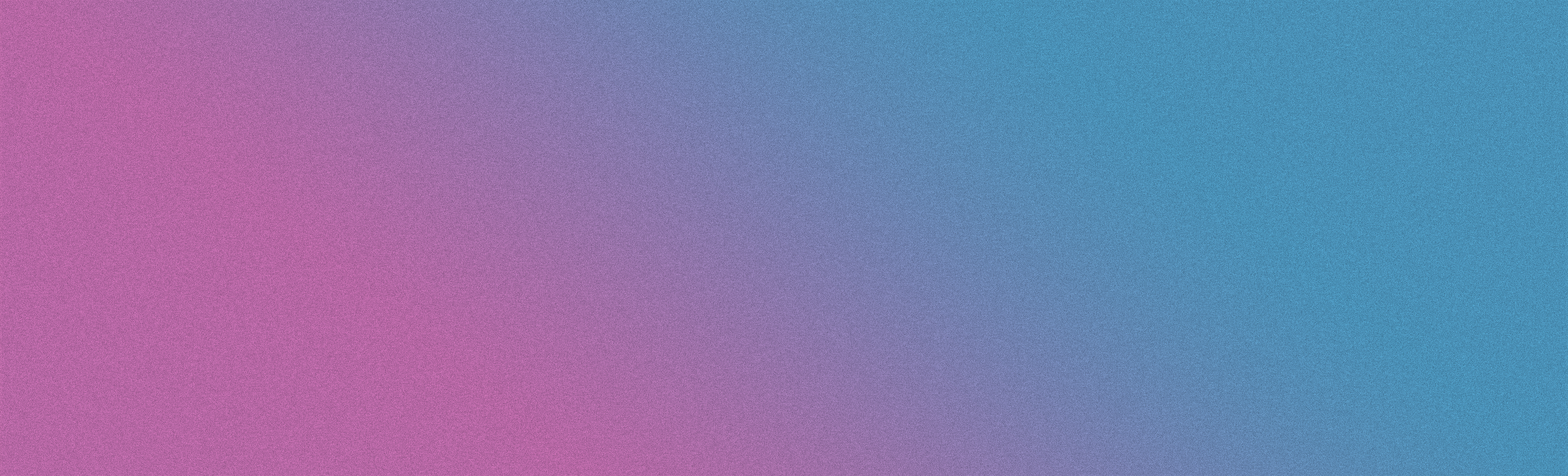
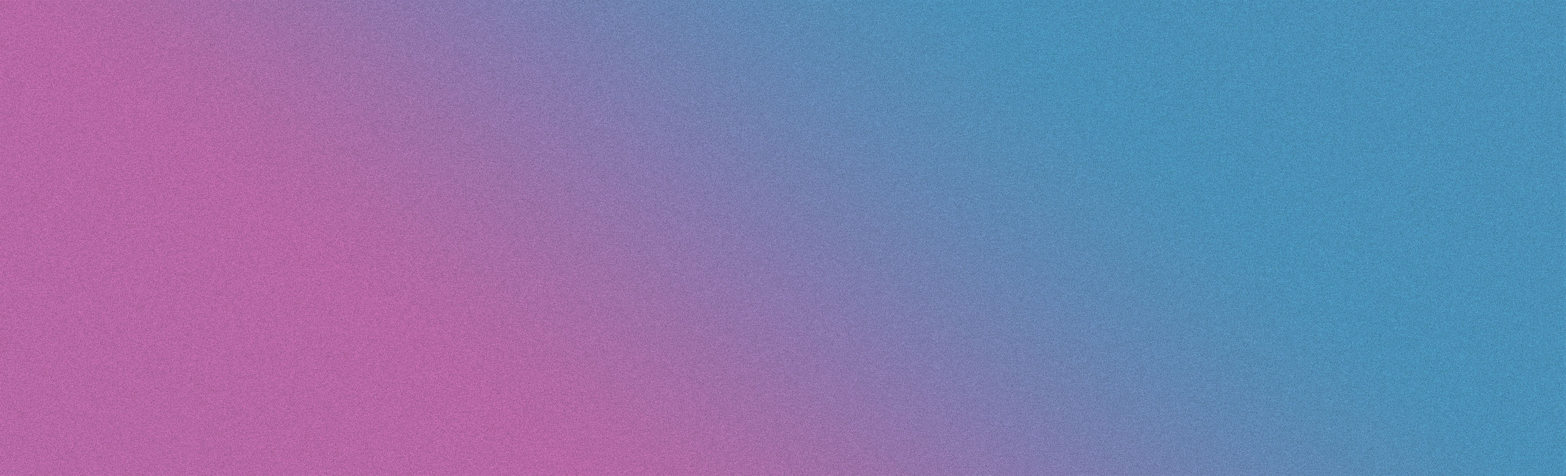
画像書き出し直し

diff --git a/css/style.css b/css/style.css
@@ -599,7 +599,7 @@ section {
     width: 100vw;
     height: 450px; }
   .concept-bg::before {
-    background-image: url("/img/bg-concept.png");
+    background-image: url("/img/bg-concept.jpg");
     z-index: -10;
     background-size: cover; }
 
@@ -639,7 +639,7 @@ section {
     margin: 56px 0 52px; }
     #service .sec-content-upper .sec-content-item {
       background-color: #fff;
-      background-image: url("/img/BG_New.png");
+      background-image: url("/img/bg-service-box.jpg");
       background-size: cover;
       color: #fff;
       position: relative;

diff --git a/scss/style.scss b/scss/style.scss
@@ -500,7 +500,7 @@ section {
     height: 450px;
   }
   &::before {
-    background-image: url('/img/bg-concept.png');
+    background-image: url('/img/bg-concept.jpg');
     z-index: -10;
     background-size: cover;
   }
@@ -582,7 +582,7 @@ section {
     .sec-content-item {
       background-color: $colorWhite;
       // width: calc((100% * 1/4) - 30px);
-      background-image: url('/img/BG_New.png');
+      background-image: url('/img/bg-service-box.jpg');
       background-size: cover;
       color: $colorWhite;
       position: relative;
